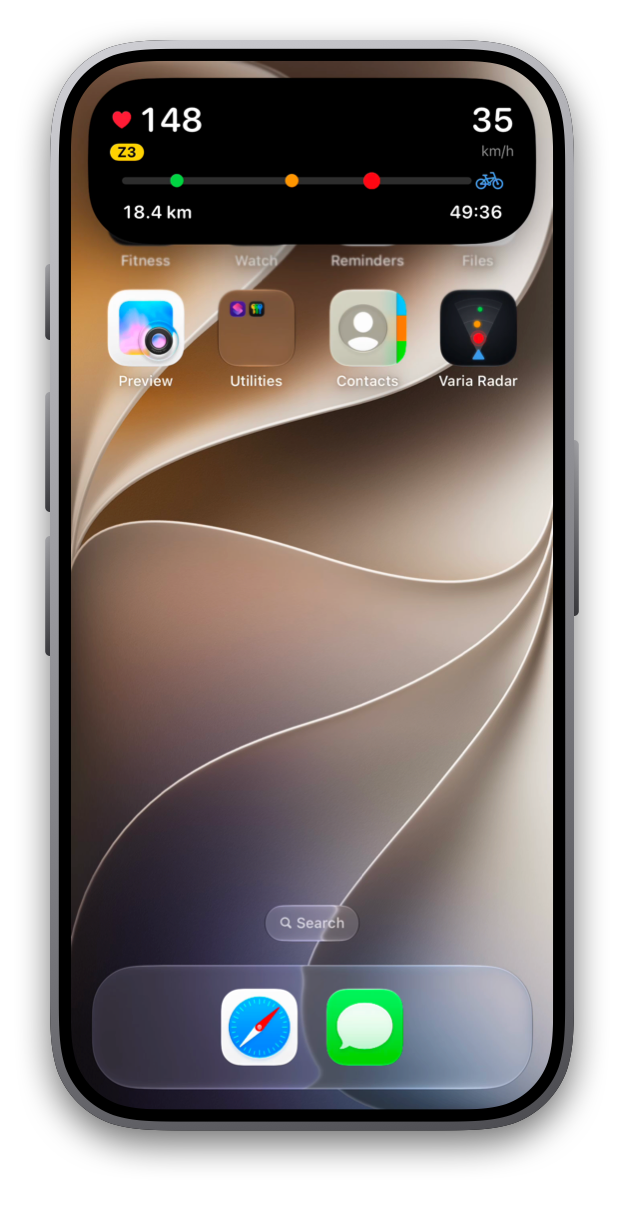
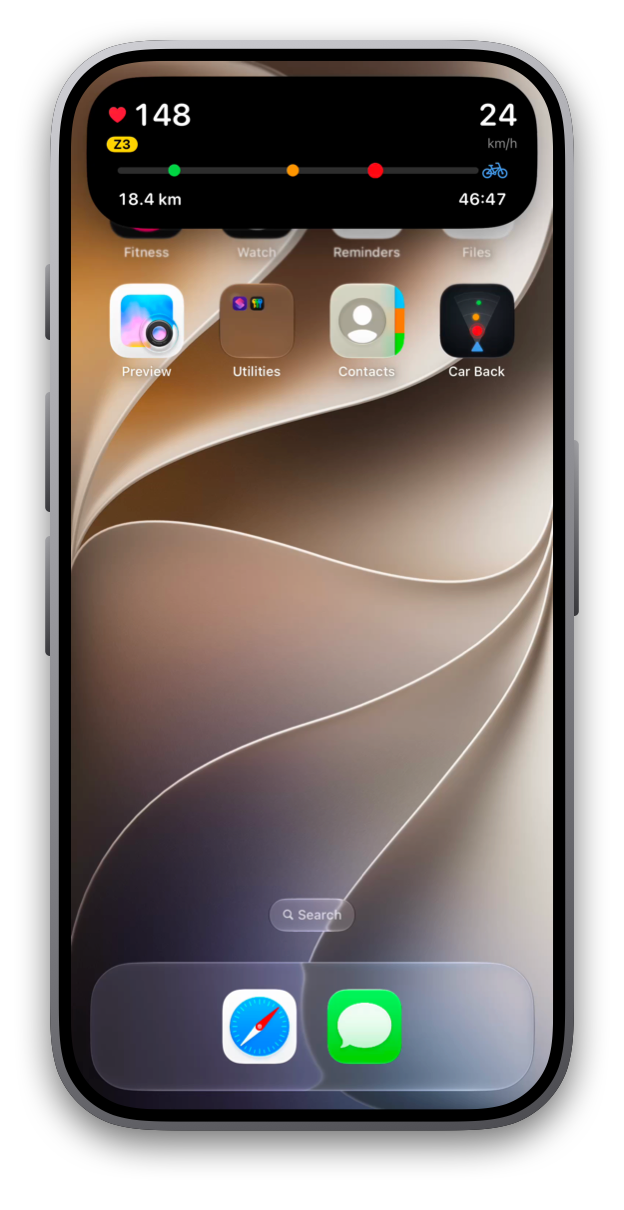
Add the privacy policy and the App Store listing
The listing has every App Store Connect field, the review notes and the
screenshots. The README and its images now show the app as Car Back.

diff --git a/Design/render-readme-images.swift b/Design/render-readme-images.swift
@@ -10,7 +10,7 @@ import SwiftUI // only for Apple's continuous ("squircle") corners, which the sc
 //   swift Design/render-readme-images.swift <screenshots folder> docs/images
 //
 // The screenshots come from the simulators with the app in demo mode (see the README):
-//   iphone-radar.png, iphone-dynamic-island.png, iphone-settings.png   iPhone 18 Pro, 1206×2622
+//   iphone-radar.png, iphone-dynamic-island.png, iphone-settings.png   iPhone 18 Pro or Pro Max
 //   watch-ride.png, watch-car-alert.png                                Watch Ultra 2, 410×502
 
 let arguments = CommandLine.arguments

diff --git a/docs/app-store/README.md b/docs/app-store/README.md
@@ -1,0 +1,107 @@
+# App Store listing – Car Back
+
+Everything App Store Connect asks for, ready to paste. Screenshots are in `screenshots/`.
+
+## App information
+
+| Field | Value |
+|---|---|
+| Name | Car Back: Bike Radar |
+| Subtitle | Cars behind you, on your wrist |
+| Bundle ID | com.stefanhud.CarBack |
+| SKU | car-back |
+| Primary language | English (U.S.) |
+| Primary category | Health & Fitness |
+| Secondary category | Sports |
+| Content rights | Doesn't contain, show or access third-party content |
+| Price | 0.99 € (pick Slovakia as the base country; other countries follow automatically) |
+| Availability | All countries. Untick "Apple silicon Mac" and "Apple Vision Pro" – the app needs Bluetooth radar and Apple Health on an iPhone |
+| Copyright | 2026 Stefan Hudzik |
+| Support URL | https://github.com/stefanhud/varia-radar/issues |
+| Marketing URL | https://github.com/stefanhud/varia-radar |
+| Privacy policy URL | https://github.com/stefanhud/varia-radar/blob/main/PRIVACY.md |
+
+**App Privacy:** "No, we do not collect data from this app." (Nothing leaves the device: no servers, analytics, ads or accounts.)
+
+**Age rating:** nothing in the app is mature content; answer the questions as they apply and it should come out 4+.
+
+## Version 1.0
+
+**Promotional text** (can be changed any time without review)
+
+> See every car behind you at a glance, feel a tap on your wrist when one comes in fast, and save the ride to Apple Fitness.
+
+**Keywords** (99 of 100 characters – no trademarks, and no words already in the name)
+
+```
+rearview,cycling,bicycle,car,alert,commute,safety,heart rate,zone,cadence,ride,road,taillight,watch
+```
+
+**Description**
+
+```
+Car Back shows the cars behind you while you ride. It connects to your rear-view bike radar and turns the iPhone on your handlebar into a clear, glanceable radar screen – and your Apple Watch taps your wrist when a car comes in fast.
+
+THE RADAR
+• Every car behind you as a dot, placed by its distance
+• Coloured by how soon it would reach you, not just how close it is: green, amber, red
+• The closing speed next to each car
+• A red glow around the screen edges and a beep when a car comes in fast – even with the phone on silent
+• Choose how early cars turn amber and red
+
+APPLE WATCH (OPTIONAL)
+• Start a ride on your iPhone; your Apple Watch records it to Apple Health and the Fitness app, with heart rate, cadence, GPS route, distance, climb and effort
+• Live heart rate, heart rate zone and cadence on the phone, next to your speed, distance and ride time
+• A tap on your wrist when a car comes in fast
+
+ALWAYS IN VIEW
+• A Live Activity in the Dynamic Island and on the Lock Screen, so you still see the cars while using maps or music
+• The radar's battery level
+• Large, high-contrast numbers made for a quick glance; the screen stays awake
+• Optional auto-dim that wakes up the moment a car appears
+
+No radar with you? Try the built-in demo.
+
+COMPATIBILITY
+Works with Garmin Varia™ rear-view radars that connect over Bluetooth (tested with the RTL515). Needs iOS 27; the Apple Watch app needs watchOS 27.
+
+PRIVACY
+No accounts, no ads, no tracking. Car Back doesn't collect any data, and your rides stay in Apple Health on your devices.
+
+Car Back is an extra pair of eyes, not a replacement for looking behind you. Always ride with care.
+
+Garmin and Varia are trademarks of Garmin Ltd. or its subsidiaries. Car Back is an independent app and is not affiliated with or endorsed by Garmin.
+```
+
+**Screenshots**
+
+- iPhone 6.9" (1320 × 2868): `screenshots/iphone-6.9/` in order 01–03. Smaller iPhones reuse these.
+- Apple Watch (410 × 502, Ultra 2): `screenshots/apple-watch/` in order 01–02.
+
+## App Review information
+
+- Sign-in required: **No**
+- Contact: your name, phone and email (only Apple sees these)
+- Attachment: a short screen recording of the app on a real ride with the radar (Control Center → Screen Recording)
+- Notes:
+
+```
+Car Back needs a Garmin Varia rear-view bike radar, which connects over Bluetooth. A screen recording of the app on a real ride is attached.
+
+To try the app without a radar, tap "No radar with you? Try the demo" on the main screen. Simulated cars approach; fast ones turn red, make the screen edges glow and beep. Tap "End" at the top to leave the demo. The Live Activity appears when you go to the Home Screen during the demo.
+
+The Apple Watch features are optional and switched off when no Watch is paired. With a paired Apple Watch, "Start ride" opens the Watch app, which records a cycling workout to Apple Health.
+
+No account or login is needed. The app doesn't collect any data.
+```
+
+## Before you submit (your part)
+
+1. **Business** in App Store Connect: accept the **Paid Apps Agreement**, add your bank account and fill in the tax forms. Without these, a paid app can't go on sale.
+2. Join the **App Store Small Business Program** (developer.apple.com/app-store/small-business-program) so Apple takes 15% instead of 30%.
+3. **EU trader status:** a paid app makes you a trader. Mark this app as a trader app; Apple then shows an address (a P.O. box is allowed), a phone number and an email on its EU App Store page. Your other app can keep its own status.
+4. **Create the app:** Apps → + → New App, with the name, bundle ID, SKU and language above.
+5. Fill in the fields above, upload the screenshots and record the review video.
+6. Optional but wise: request access to Garmin's **Radar Data BLE Program** (developer.garmin.com/radar-data-ble).
+
+Then the build: upload it, test it yourself through TestFlight on a ride, pick it on the version page and press **Submit for Review**.

diff --git a/README.md b/README.md
@@ -1,19 +1,20 @@
-# Varia Radar
+# Car Back
 
 <p align="center">
-  <img src="docs/images/hero.png" alt="Varia Radar on an iPhone, the screen edges glowing red for a car closing in at 46 km/h, and the same car alert on an Apple Watch Ultra">
+  <img src="docs/images/hero.png" alt="Car Back on an iPhone, the screen edges glowing red for a car closing in at 46 km/h, and the same car alert on an Apple Watch Ultra">
 </p>
 
-An iPhone and Apple Watch app for riding with a Garmin Varia rear radar (RTL515/516).
+An iPhone and Apple Watch app for riding with a Garmin Varia™ rear radar (RTL515/516). Formerly called Varia Radar.
 
 - **Radar screen** – cars behind you, coloured by how soon they'd reach you, with their closing speed
 - **Apple Watch rides** – live heart rate, zone and cadence on the phone; the ride is saved to Fitness with route, climb and effort
 - **Alerts** – a tap on the wrist, a beep, a red glow around the screen edges, and a Live Activity in the Dynamic Island and on the Lock Screen
 - **Settings** – radar-only mode, alert timing, sound, glow and auto-dim
+- **Demo** – no radar with you? Simulated cars show how it all works
 
 Built with [Claude Code](https://claude.com/claude-code) by a first-time iOS developer – see [How it was built](#how-it-was-built).
 
-An independent project, not affiliated with or endorsed by Garmin. Varia is a trademark of Garmin Ltd.
+An independent project, not affiliated with or endorsed by Garmin. Garmin and Varia are trademarks of Garmin Ltd. or its subsidiaries.
 
 ## Screenshots
 
@@ -48,7 +49,7 @@ Some examples of that loop:
 - After the first test ride, the ride's distance and time kept running on the phone after the ride had ended on the Watch. Later the phone sometimes claimed it had lost the Watch after a normal finish. Both came down to how the phone followed the Watch's workout, and were fixed.
 - The app icons, the alert sounds and the images in this README are drawn by Swift scripts in `Design/`, written the same way.
 
-The result is about 2,700 lines of Swift in 34 files: an iPhone app, a watchOS app and a Live Activity extension, using SwiftUI, Core Bluetooth, HealthKit, ActivityKit, WidgetKit, Core Location and Core Motion.
+The result is about 2,800 lines of Swift in 35 files: an iPhone app, a watchOS app and a Live Activity extension, using SwiftUI, Core Bluetooth, HealthKit, ActivityKit, WidgetKit, Core Location and Core Motion.
 
 ## Building
 
@@ -65,7 +66,7 @@ To build under your own Apple account, set `DEVELOPMENT_TEAM` in `project.yml`.
 
 ### Making the screenshots
 
-Debug builds have a demo mode. Launched with `-demo` (in Xcode: Product › Scheme › Edit Scheme › Arguments), the iPhone app in the simulator shows three cars, one of them closing in fast, and a Watch ride in progress. The Watch app shows a ride; add `-demoAlert` for the car alert. The screenshots are then framed with:
+Debug builds have a screenshot mode. Launched with `-demo` (in Xcode: Product › Scheme › Edit Scheme › Arguments), the iPhone app in the simulator holds three cars still, one of them closing in fast, with a Watch ride in progress; `-noRadar` shows the screen you get before a radar connects. The Watch app shows a ride; add `-demoAlert` for the car alert. The README screenshots are then framed with:
 
 ```sh
 swift Design/render-readme-images.swift <screenshots folder> docs/images
@@ -81,6 +82,8 @@ swift Design/render-readme-images.swift <screenshots folder> docs/images
 | `Shared/`, `LiveActivity/` | Code shared between the targets |
 | `Design/` | Scripts that render the app icons, the alert sounds and the README images |
 | `docs/images/` | The README images |
+| `docs/app-store/` | The App Store listing: texts, review notes and screenshots |
+| `PRIVACY.md` | The privacy policy (the app collects no data) |
 
 The Varia's Bluetooth protocol is documented at the top of `VariaRadar/Radar/VariaBluetoothProvider.swift`.
 

diff --git a/PRIVACY.md b/PRIVACY.md
@@ -1,0 +1,25 @@
+# Car Back – Privacy Policy
+
+*Last updated: 9 October 2026*
+
+Car Back doesn't collect any data about you. There are no accounts, no ads, no analytics, no tracking, and no servers: the app never sends your data anywhere.
+
+## What the app uses, and where it stays
+
+- **Bluetooth** – to connect to your rear-view bike radar. The distance and speed of cars behind you are shown live and then forgotten; nothing is stored.
+- **Location** – on the iPhone, only while the app is open, to show your speed. On the Apple Watch, during a ride, to record your route. The route is saved to Apple Health with the ride; nothing else is kept.
+- **Apple Health** – the Watch app saves your rides to Apple Health (time, distance, heart rate, cadence, energy, route, climb and effort), like any other workout. The iPhone app reads your heart rate, cadence and the saved ride to show them on screen. Your health data stays in Apple Health on your devices: Car Back doesn't upload it, share it with anyone, or use it for advertising.
+- **Motion** – on the Apple Watch, the barometer measures how much you climb during a ride.
+- **Settings** – your choices in Settings are stored on your iPhone.
+
+You can turn off any of these permissions at any time in the iOS Settings app, or in the Health app under Sharing → Apps.
+
+## Crash reports
+
+If you've chosen to share analytics with app developers (iOS Settings → Privacy & Security → Analytics & Improvements), Apple may send us anonymous crash reports. They don't identify you.
+
+## Contact
+
+Questions or problems: open an issue at <https://github.com/stefanhud/varia-radar/issues>.
+
+Car Back is an independent app and is not affiliated with or endorsed by Garmin.
